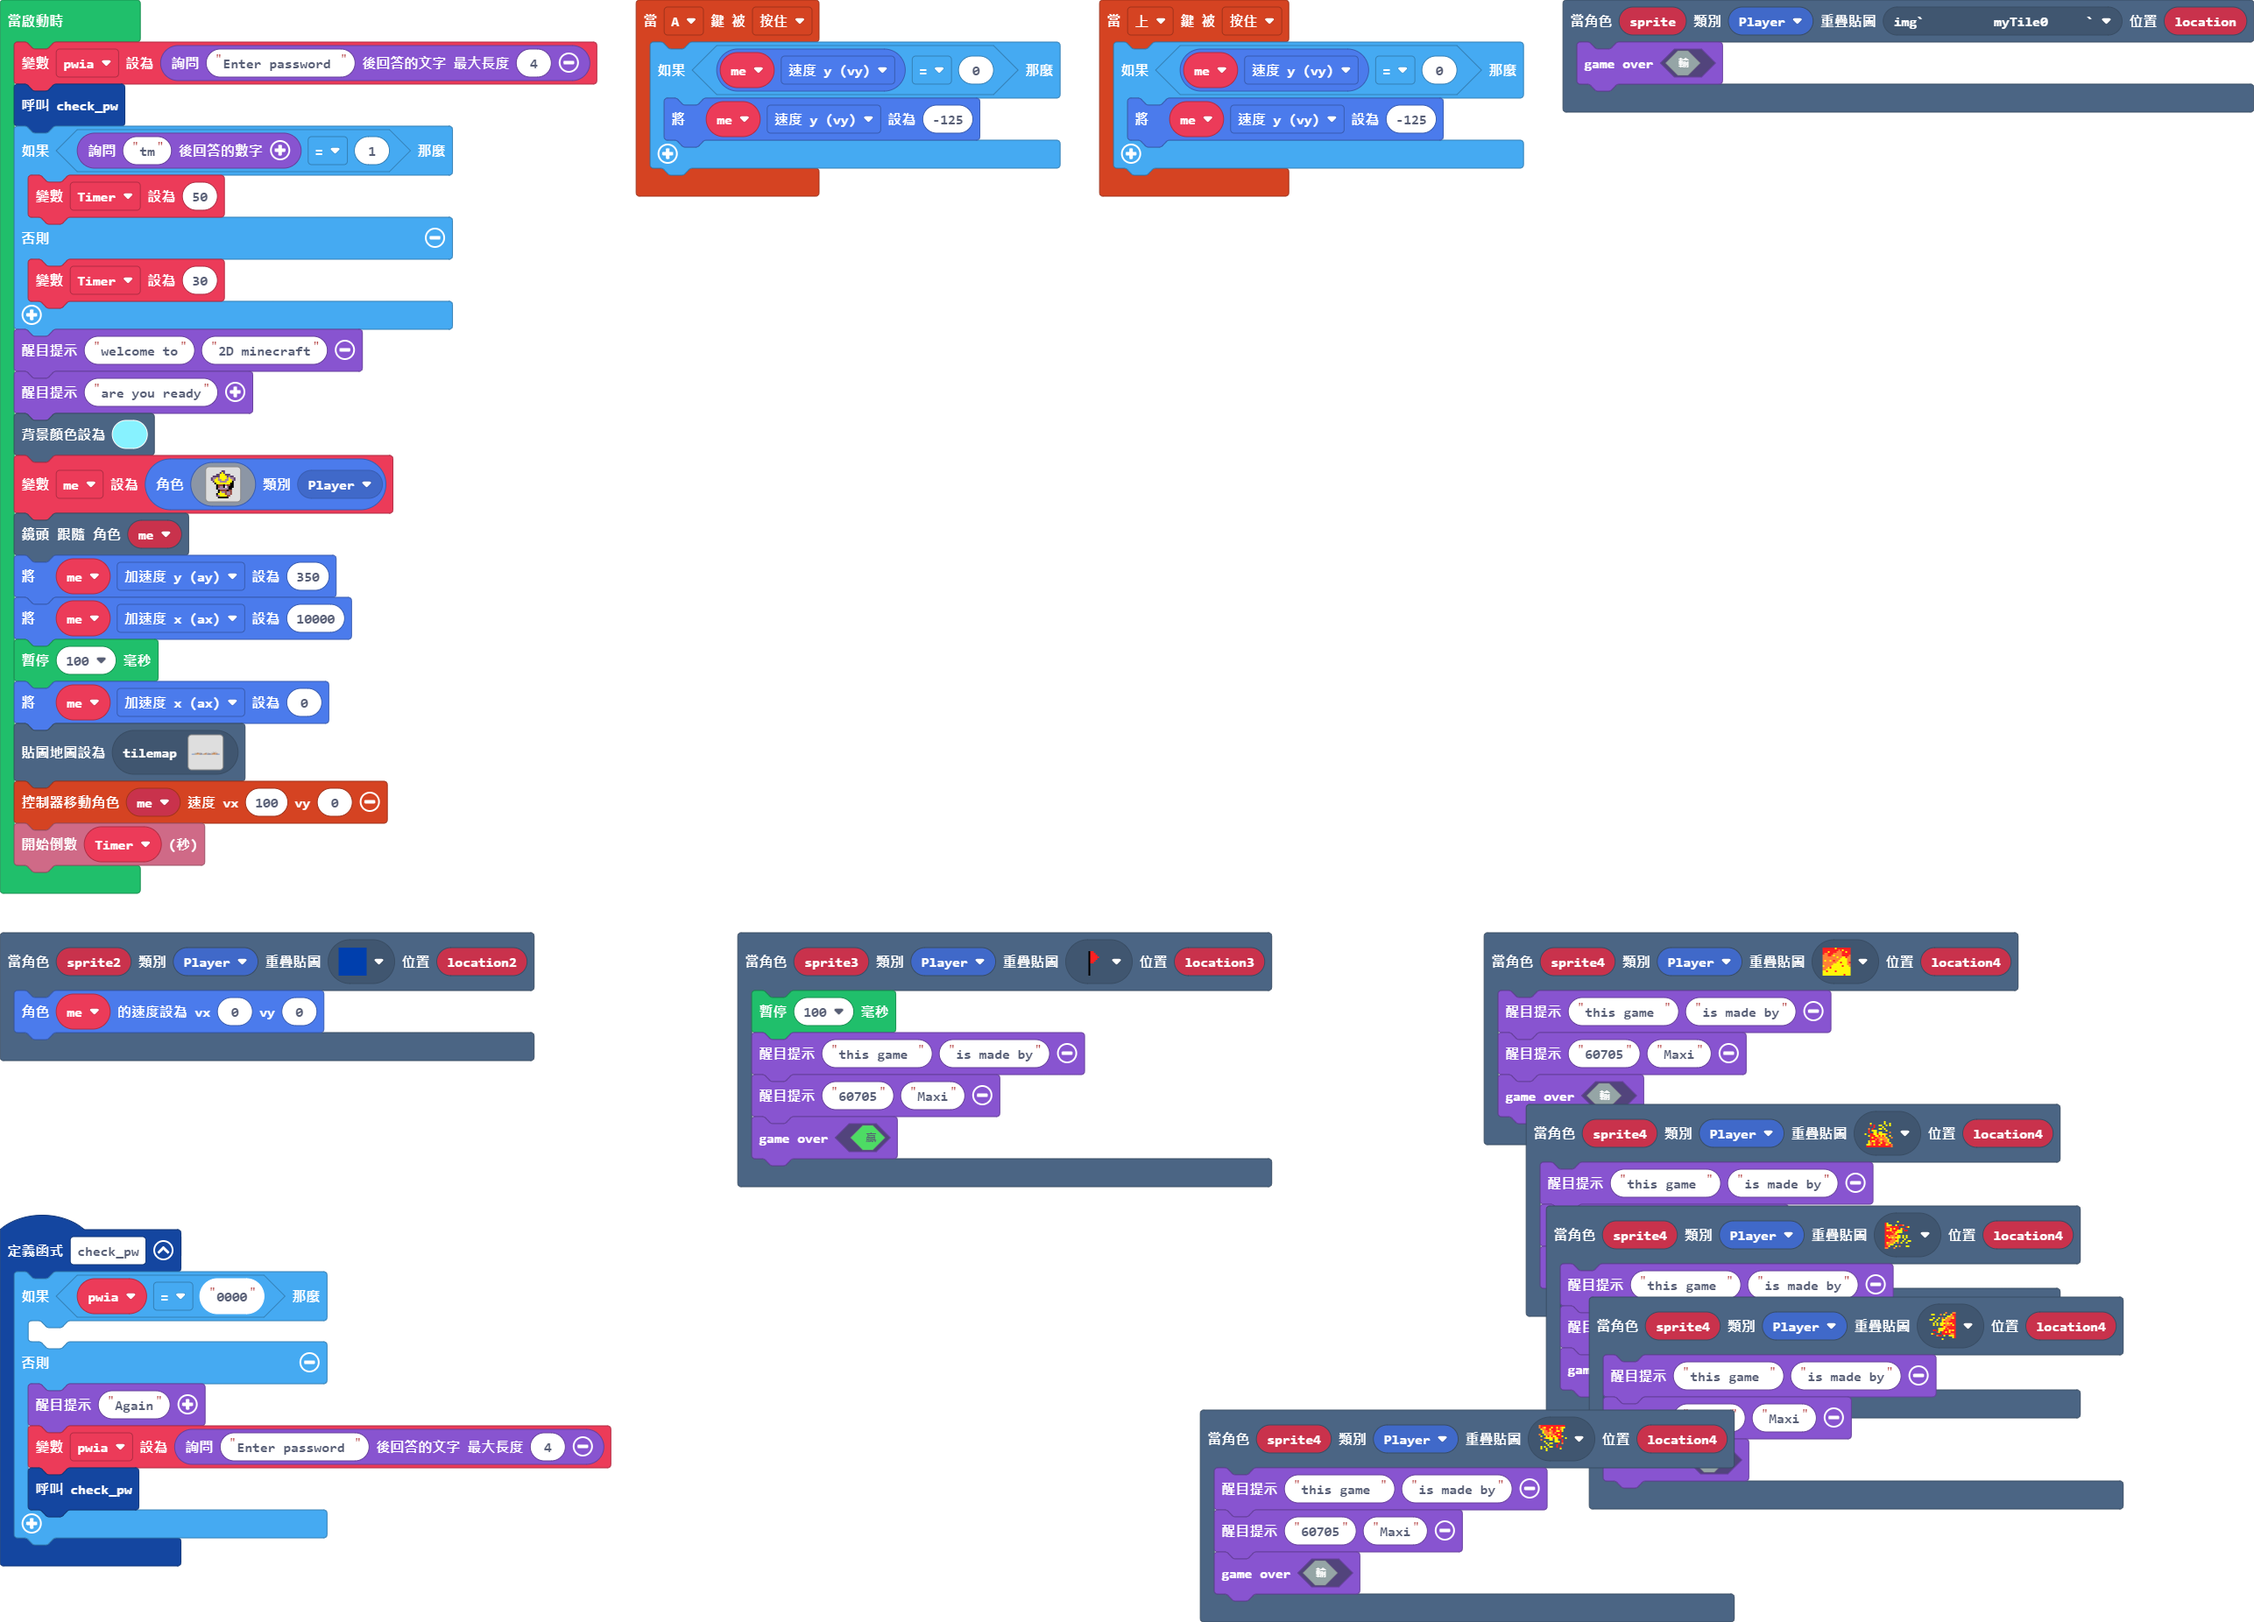
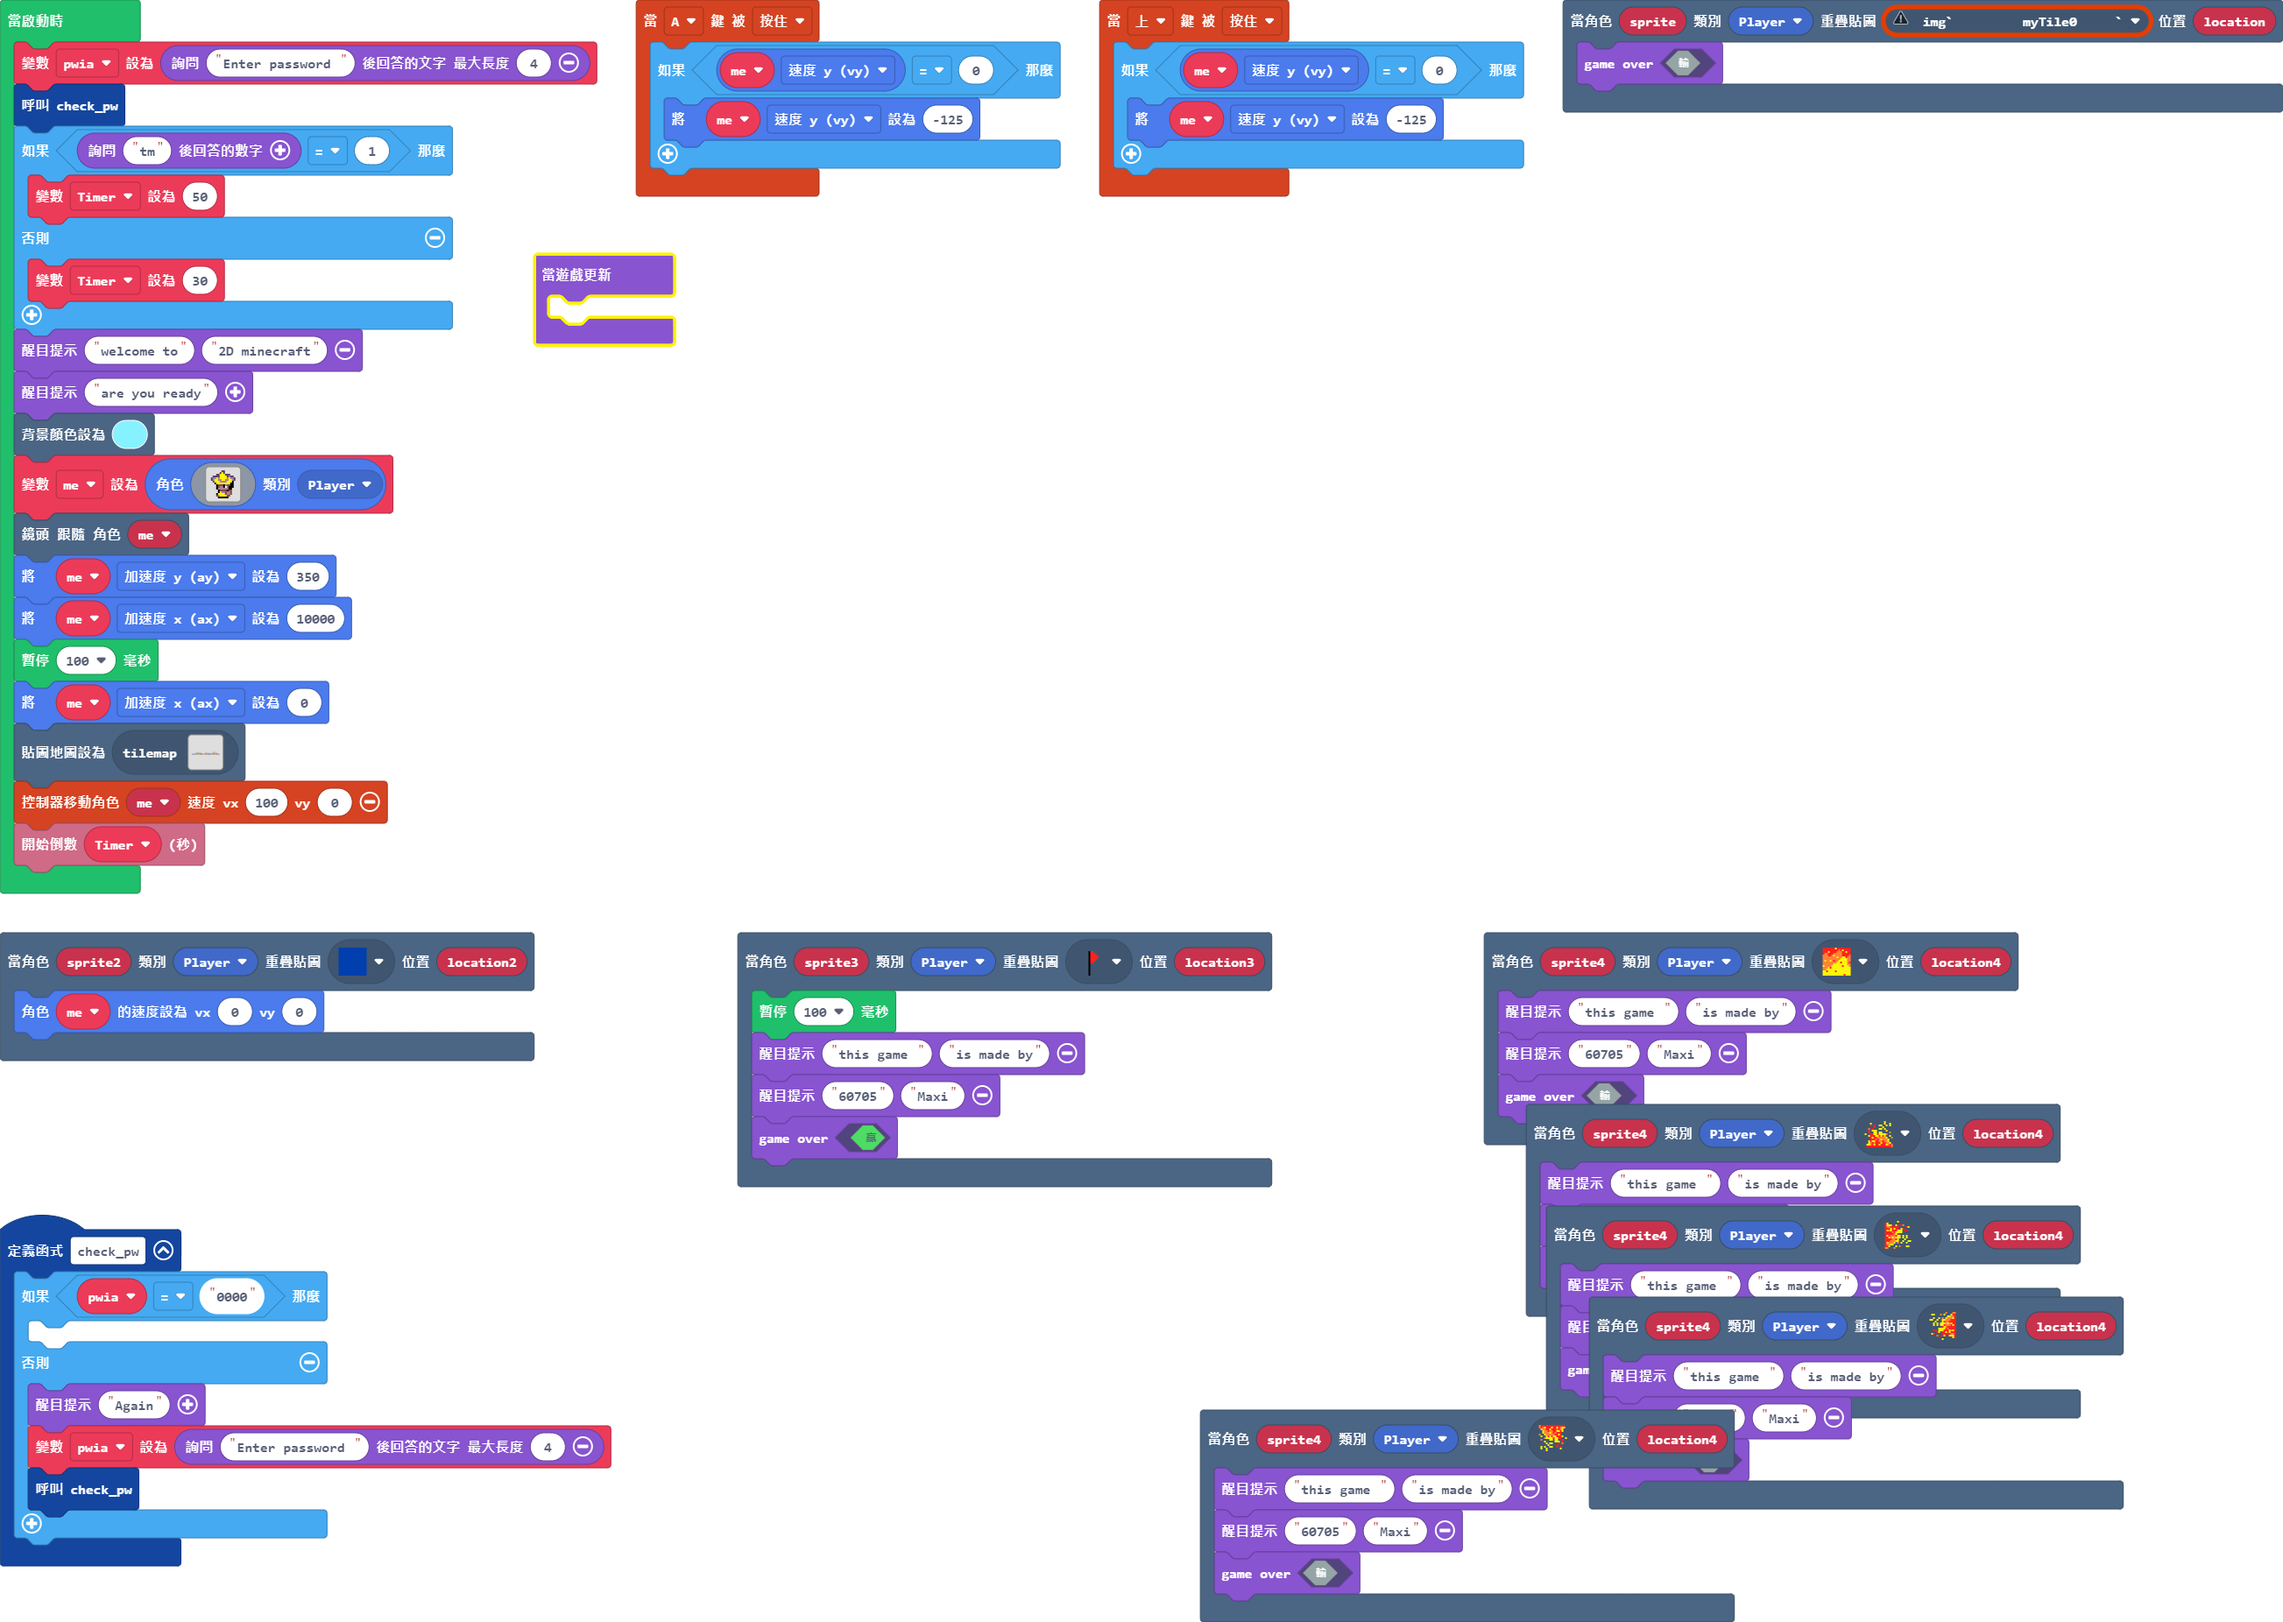
更新 main.blocks, main.ts, tilemap.g.jres, tilemap.g.ts

diff --git a/tilemap.g.ts b/tilemap.g.ts
@@ -114,7 +114,7 @@ namespace myTiles {
 . . . . . . . . . . . . . . . . 
 `, [myTiles.transparency16], TileScale.Sixteen);
             case "層級3":
[2 lines of base64/hex data omitted]
 ...........22............................................................2222222
 ...........22............................................................2222222
 ...........22............................................................2222222

diff --git a/main.ts b/main.ts
@@ -95,3 +95,6 @@ me.ax = 0
 tiles.setCurrentTilemap(tilemap`層級3`)
 controller.moveSprite(me, 100, 0)
 info.startCountdown(Timer)
+game.onUpdate(function () {
+	
+})
